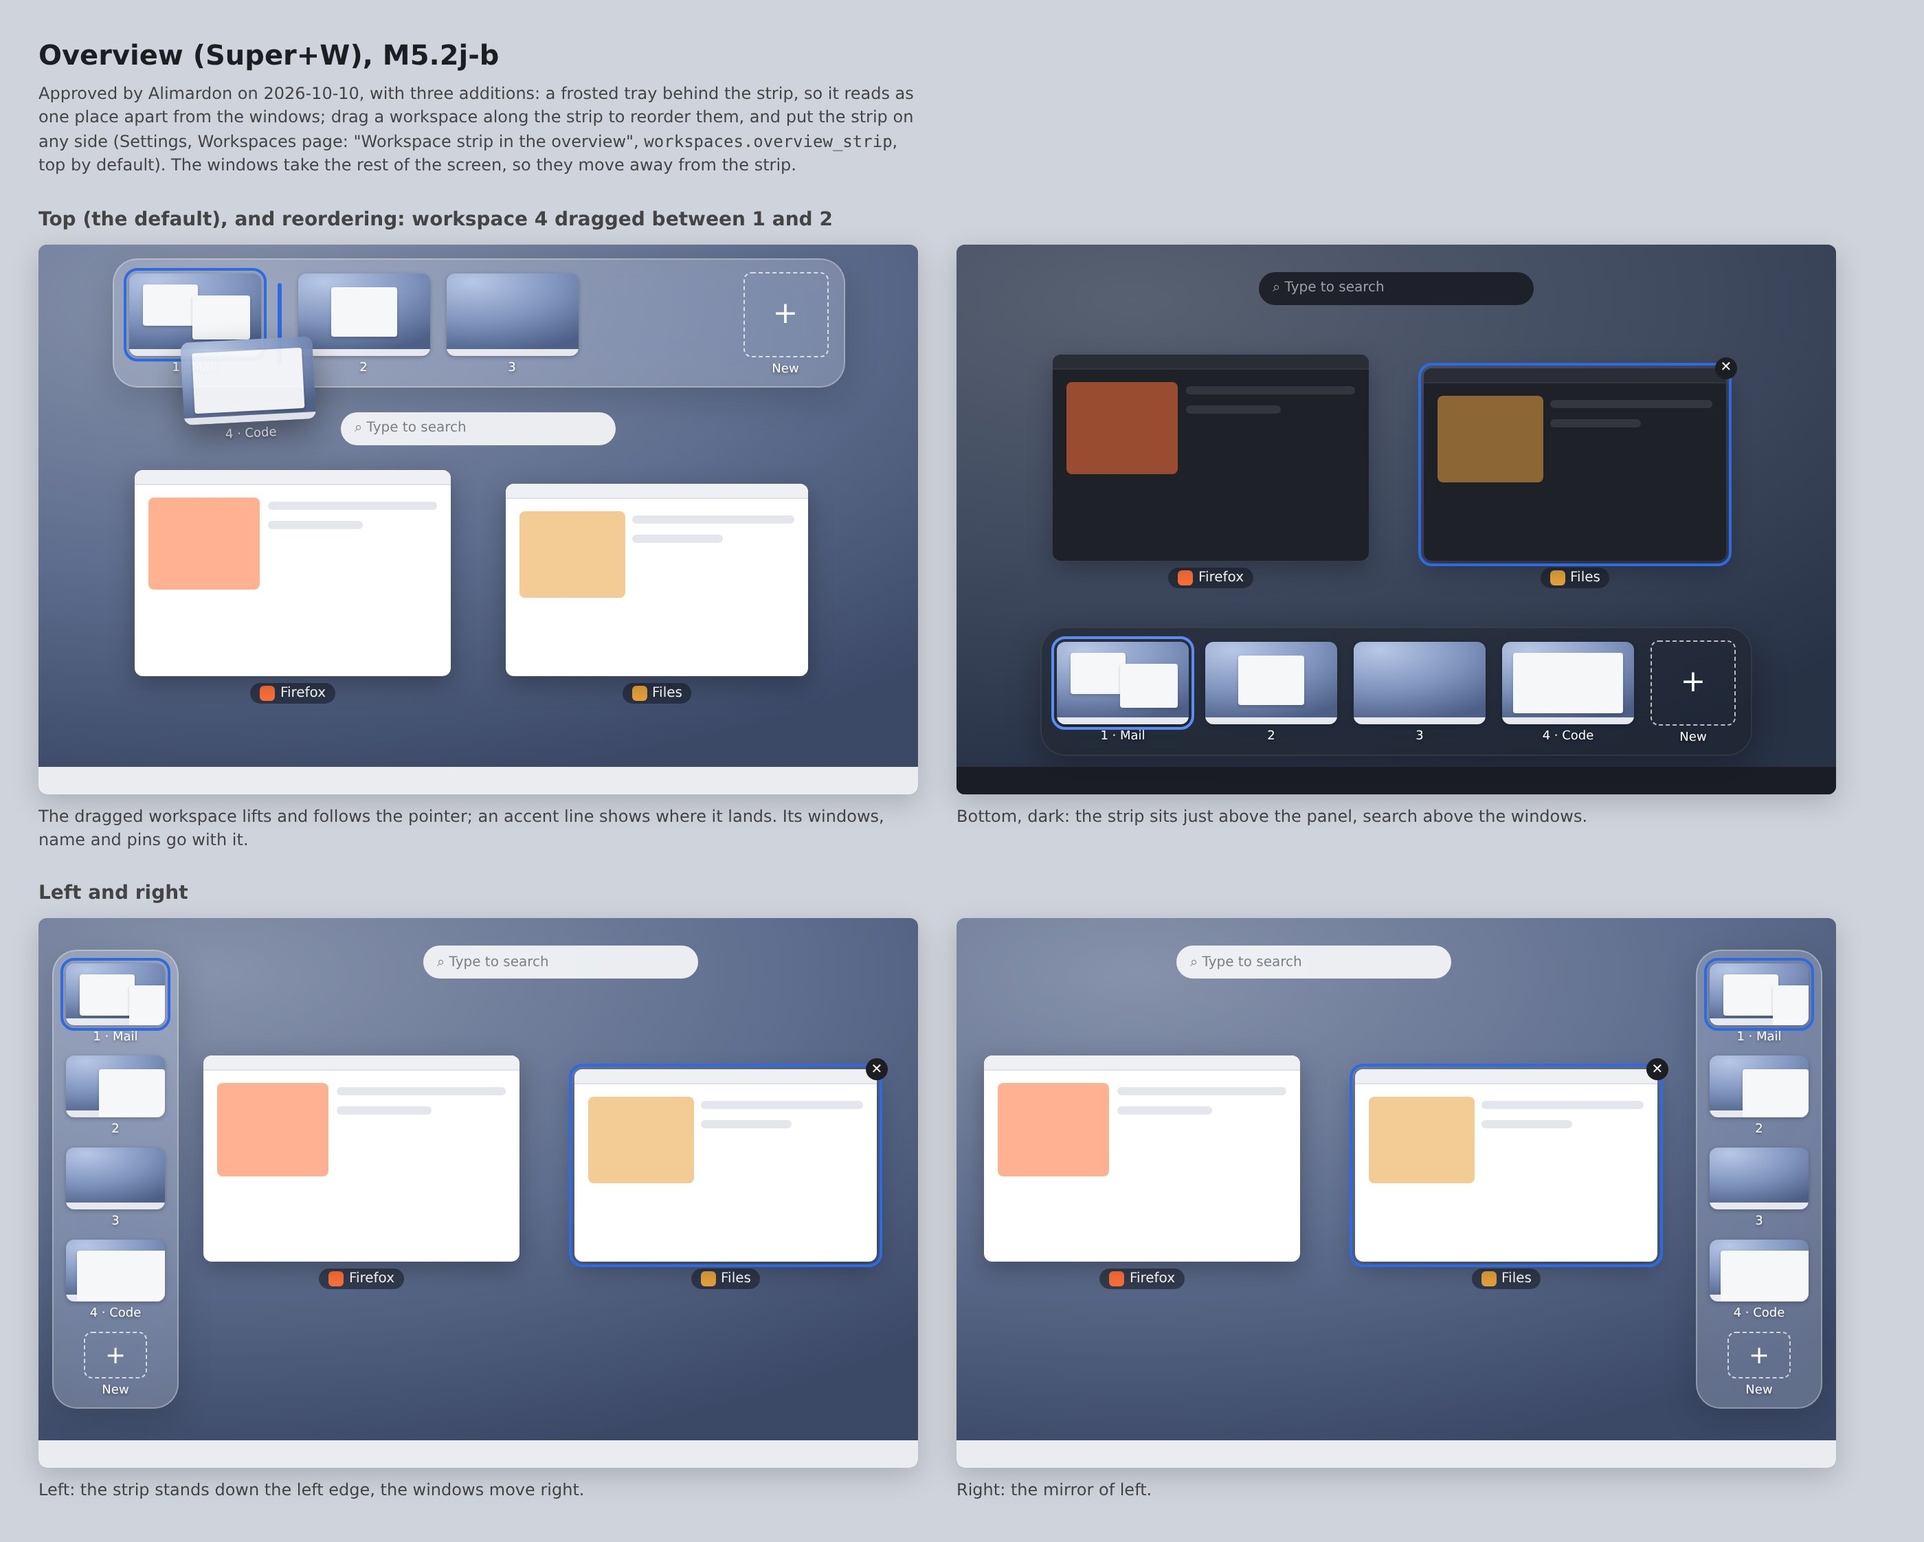
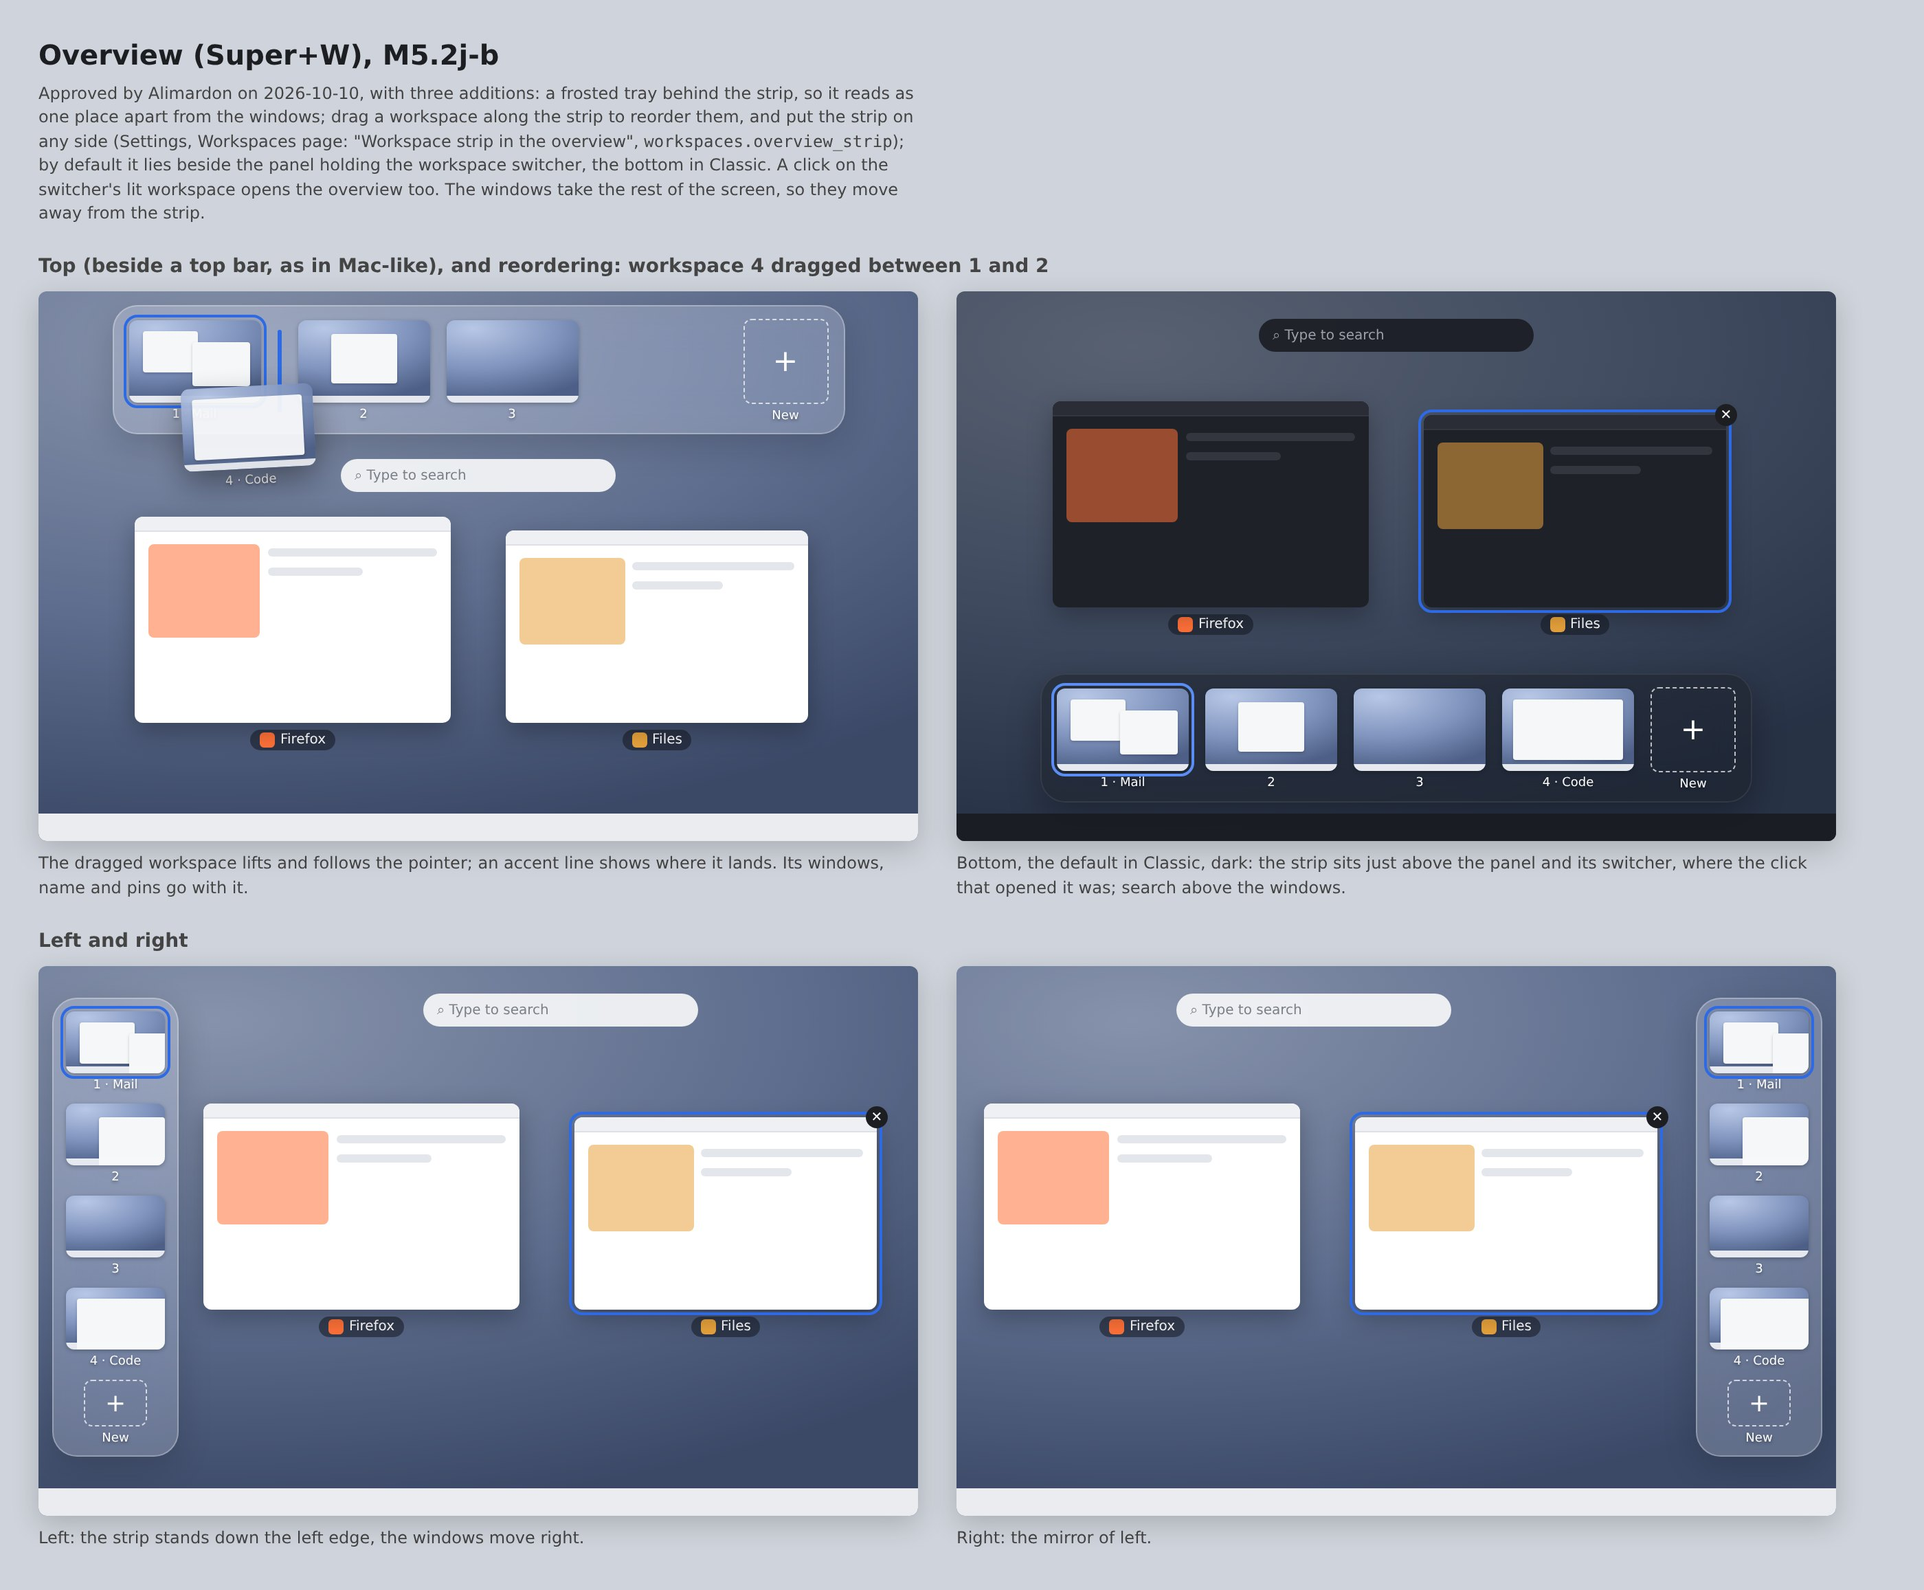
Open the overview beside the switcher's panel, and from its lit workspace
Asked by Alimardon on 2026-10-10: the strip's default should be the
bottom, left or right rather than the top, and a click on the panel
switcher's lit workspace should open the overview. By default the strip
now lies beside the panel holding the switcher, the bottom in Classic,
where the click that opens it lands; workspaces.overview_strip still
puts it on any side.

Claude-Session: https://claude.ai/code/session_01BKmt1qoa5mKGyQ4ytiEsKo

diff --git a/docs/mockups/shell/canvas/overview.html b/docs/mockups/shell/canvas/overview.html
@@ -52,10 +52,10 @@ h1{font-size:20px;margin:0 0 4px}h2{font-size:14px;margin:22px 0 10px;color:#444
 .hand{position:absolute;font-size:18px}
 </style></head><body>
 <h1>Overview (Super+W), M5.2j-b</h1>
-<div class="cap">Approved by Alimardon on 2026-10-10, with three additions: a frosted tray behind the strip, so it reads as one place apart from the windows; drag a workspace along the strip to reorder them, and put the strip on any side (Settings, Workspaces page: "Workspace strip in the overview", <code>workspaces.overview_strip</code>, top by default). The windows take the rest of the screen, so they move away from the strip.</div>
-<h2>Top (the default), and reordering: workspace 4 dragged between 1 and 2</h2>
+<div class="cap">Approved by Alimardon on 2026-10-10, with three additions: a frosted tray behind the strip, so it reads as one place apart from the windows; drag a workspace along the strip to reorder them, and put the strip on any side (Settings, Workspaces page: "Workspace strip in the overview", <code>workspaces.overview_strip</code>); by default it lies beside the panel holding the workspace switcher, the bottom in Classic. A click on the switcher's lit workspace opens the overview too. The windows take the rest of the screen, so they move away from the strip.</div>
+<h2>Top (beside a top bar, as in Mac-like), and reordering: workspace 4 dragged between 1 and 2</h2>
 <div class="row"><div><div class="screen" id="top"></div><div class="cap">The dragged workspace lifts and follows the pointer; an accent line shows where it lands. Its windows, name and pins go with it.</div></div>
-<div class="dark"><div class="screen" id="bottom"></div><div class="cap">Bottom, dark: the strip sits just above the panel, search above the windows.</div></div></div>
+<div class="dark"><div class="screen" id="bottom"></div><div class="cap">Bottom, the default in Classic, dark: the strip sits just above the panel and its switcher, where the click that opened it was; search above the windows.</div></div></div>
 <h2>Left and right</h2>
 <div class="row"><div><div class="screen" id="left"></div><div class="cap">Left: the strip stands down the left edge, the windows move right.</div></div>
 <div><div class="screen" id="right"></div><div class="cap">Right: the mirror of left.</div></div></div>

diff --git a/docs/ROADMAP.md b/docs/ROADMAP.md
@@ -219,8 +219,8 @@ Every milestone ends with the ab-test, boot-test and install-test still green; a
     Done when: cargo tests write each new name (`edel settings set workspaces.count=6` gives `[workspaces]` `count = 6`); desktop-test `settings-workspaces` opens Settings with `--page workspaces.count` and its click on 6 writes `workspaces.count = 6`; `settings-panels` opens the Panels page; a new `settings-appearance` case clicks Dark and sees the dark tokens. Notes: the panel editor (M5.31) and the compositor read the new names; `docs/settings.md` lists the three pages in the app's order. Done with: `edel::settings` has `[panels]`, `[workspaces]` and the switcher's `appearance.switcher_*` keys, with no old names kept; Settings' `layout.rs` builds the four pages with one builder (Style is Light, Dark and Automatic as buttons) and three new icons in `design/icons/`; the compositor, shell-ui, the panel editor and every desktop-test case read and write the new names, and `settings-appearance` clicks Dark.
   - [x] **2j-a. The overview, first.** Super+W (`show_workspaces`, as COSMIC has it; desktop-test's rebinding of close moved to Super+X) zooms out to every workspace of the screen side by side, each with its windows' last pictures (the still ones Lite shows); a click on a workspace shows it and leaves; a window dragged onto another workspace of its screen moves there and the overview stays; Escape or Super+W again leaves.
     Done when: Super+W shows four workspace frames in the screendump with a test window's colour in the second; a `qmp.py drag` of that window to the third frame logs `window lap to workspace 3`; Escape brings the desktop back with no overview layer left. Done with: `glance.rs` draws the overview and the lib's `overview.rs` holds its geometry (tested); desktop-test's `overview` case sends `lap` to workspace 2, finds its colour in frame 2, drags its picture to frame 3, and checks Escape, a click on frame 3 and Super+1. PR #196.
-  - [ ] **2j-b. The overview, finished.** Redrawn after the overviews people know (Alimardon, 2026-10-10: learn from them, without copying any): the current workspace large in the middle with its windows spread out to pick, each with its app icon and title under it and a close button while hovered; every workspace a small frame in a strip on its own frosted tray (the panel's colour over the blurred wallpaper on Full, solid on Balanced and Lite, a hairline inside its edge and round corners, so the strip reads as one place apart from the windows), with the wallpaper and its number or name under it, and a frame to add one at the strip's end (`docs/mockups/shell/overview.jpg`). A workspace dragged along the strip reorders them, its windows, name and pins going with it. The frames never shrink below a readable size (96 by 60 px along the top or bottom, 72 by 45 down a side, smaller only on Compact screens at touch size); when all nine do not fit, as down the side of a short laptop screen, the strip scrolls instead, with no scroll bar: the end that holds more fades out under a small arrow, as the panel's workspace switcher draws it, a wheel, a swipe or a click on the arrow scrolls it, and the shown workspace is always in view when the overview opens. Search sits between the strip and the windows, never touching either: at least 16 px from the tray's edge and from the windows, the windows taking what is left. The strip lies along the top by default, or the bottom, the left or the right, as `workspaces.overview_strip` (`top`, `bottom`, `left`, `right`) says, a row on the Workspaces page and an `edel settings` key like every other, the windows taking the rest of the screen. Tiling or floating, the overview is the same: it draws each window's picture spread out, whatever the workspace's policy, changes no window's place or size, and leaving it gives back each workspace's layout as it was (Alimardon, 2026-10-10: tiling must never make the UI buggy). Live pictures on Full and Balanced; a window dragged onto another screen moves there; a workspace dragged reorders them (2i); typing searches the windows and the launcher's apps. The four-finger swipe up on a touchpad and the tablet gesture (M9.4) open it too. Beyond macOS's Mission Control and COSMIC's overview: search built in, every preset, and the same overview on a tablet.
-    Done when: at tier Full, a test window that changes its colour while the overview is open shows the new colour in the screendump; in the `outputs` case a drag of a window's picture onto the second screen's frame logs it on that screen; dragging frame 3 onto frame 1 logs the new order; typing `foot` and Return in the overview starts foot. `edel settings set workspaces.overview_strip=left` puts the strip at the screen's left in the screendump, and `diagonal` is refused with the key's choices; on a tiled workspace, opening and leaving the overview leaves the state file's windows where they were.
+  - [ ] **2j-b. The overview, finished.** Redrawn after the overviews people know (Alimardon, 2026-10-10: learn from them, without copying any): the current workspace large in the middle with its windows spread out to pick, each with its app icon and title under it and a close button while hovered; every workspace a small frame in a strip on its own frosted tray (the panel's colour over the blurred wallpaper on Full, solid on Balanced and Lite, a hairline inside its edge and round corners, so the strip reads as one place apart from the windows), with the wallpaper and its number or name under it, and a frame to add one at the strip's end (`docs/mockups/shell/overview.jpg`). A workspace dragged along the strip reorders them, its windows, name and pins going with it. The frames never shrink below a readable size (96 by 60 px along the top or bottom, 72 by 45 down a side, smaller only on Compact screens at touch size); when all nine do not fit, as down the side of a short laptop screen, the strip scrolls instead, with no scroll bar: the end that holds more fades out under a small arrow, as the panel's workspace switcher draws it, a wheel, a swipe or a click on the arrow scrolls it, and the shown workspace is always in view when the overview opens. Search sits between the strip and the windows, never touching either: at least 16 px from the tray's edge and from the windows, the windows taking what is left. By default the strip lies beside the panel that holds the workspace switcher, along the bottom in Classic and Windows-like and along the top in Mac-like, so it opens where the pointer already is (Alimardon chose the bottom over the top on 2026-10-10); `workspaces.overview_strip` (`bottom`, `top`, `left`, `right`) puts it on one side for good, a row on the Workspaces page and an `edel settings` key like every other, the windows taking the rest of the screen. Besides Super+W, a click on the switcher's shown workspace, the one already lit, opens the overview, and a second click leaves it: shell-ui asks the compositor over `edel-shell-v1`. Tiling or floating, the overview is the same: it draws each window's picture spread out, whatever the workspace's policy, changes no window's place or size, and leaving it gives back each workspace's layout as it was (Alimardon, 2026-10-10: tiling must never make the UI buggy). Live pictures on Full and Balanced; a window dragged onto another screen moves there; a workspace dragged reorders them (2i); typing searches the windows and the launcher's apps. The four-finger swipe up on a touchpad and the tablet gesture (M9.4) open it too. Beyond macOS's Mission Control and COSMIC's overview: search built in, every preset, and the same overview on a tablet.
+    Done when: at tier Full, a test window that changes its colour while the overview is open shows the new colour in the screendump; in the `outputs` case a drag of a window's picture onto the second screen's frame logs it on that screen; dragging frame 3 onto frame 1 logs the new order; typing `foot` and Return in the overview starts foot. with Classic the strip lies along the bottom, above the panel; a click on the panel switcher's lit workspace logs `overview shown`; `edel settings set workspaces.overview_strip=left` puts the strip at the screen's left in the screendump, and `diagonal` is refused with the key's choices; on a tiled workspace, opening and leaving the overview leaves the state file's windows where they were.
 - [x] **3. Launcher and switcher.** One private protocol `edel-shell-v1` (compositor to shell-ui: show launcher, switcher step, hide); the launcher reads the XDG `.desktop` files itself (no GLib in shell-ui) with search, and grows out of its panel button (REVIEW-shells.md); Alt-Tab list; the presets gain the launcher's style.
   Done when: `qmp.py key meta_l` shows the launcher region colour; `type foot` and Return gives `mapped window foot`; Alt-Tab shows the switcher region.
   Split into three PRs, ticked as each lands:
@@ -735,7 +735,7 @@ RAUC, ostree or systemd (a systemd adapter only as an add-on, M11.6); a shell ex
 
 Dated entries, newest first. Format: `YYYY-MM-DD: what changed, why, which PR`. Since 2026-10-07 only a change to the plan gets an entry: a finished step is recorded by its tick and its "Done with:" note, so the many PRs running side by side do not all add a line at the same place.
 
-- 2026-10-10: M5.2j-b's overview approved from mockups (`docs/mockups/shell/overview.jpg`), with Alimardon's three additions: a frosted tray behind the strip, workspaces reorder by dragging in the strip, and the strip lies on any side (`workspaces.overview_strip`, top by default), the side chosen like any other setting; tiling or floating, the overview changes no layout. Asked by Alimardon.
+- 2026-10-10: M5.2j-b's overview approved from mockups (`docs/mockups/shell/overview.jpg`), with Alimardon's three additions: a frosted tray behind the strip, workspaces reorder by dragging in the strip, and the strip lies on any side (`workspaces.overview_strip`), by default beside the switcher's panel (the bottom in Classic, Alimardon's choice over the top), and a click on the switcher's lit workspace opens it too; tiling or floating, the overview changes no layout. Asked by Alimardon.
 - 2026-10-10: M5.9i added: the player card names its app at its top centre and pages through every player sideways with tiny dots, still a pill (`docs/mockups/shell/player.jpg`; Alimardon chose 2A, sideways, over 2B, a vertical stack with dots on its edge). M5.2j-b also redraws the overview after the overviews people know (macOS's Mission Control, GNOME, Windows' Task View, KDE): the current workspace large with its windows spread out, every workspace a small frame in a strip along the top with the wallpaper and its name, app icons and titles under windows, a frame to add a workspace, and a close button on a hovered window. Asked by Alimardon.
 - 2026-10-10: Until the first release, settings keys are renamed or dropped freely, with no old names read and no compatibility code; `ci/keys-check.sh` passes a removed key while `released=no`, and M5.2q renames without reading the old names (ADR-008 amended). Asked by Alimardon. PR #194.
 - 2026-10-10: M5.12b split into 12b1 to 12b6 (colours, shape, glass and depth, motion, fonts and wallpaper, themes), so appearance is as customizable as a Hyprland or niri rice within settings and tokens; themes get their own Settings page, `[themes]`, as named sets of appearance values, Claude's call when Alimardon left it open. Asked by Alimardon.

diff --git a/docs/mockups/README.md b/docs/mockups/README.md
@@ -72,7 +72,7 @@ review of M8.18 first) may revisit them for better taste.
 | [shell/settings.jpg](shell/settings.jpg) | Every setting these pictures need: its choices, its default and its proposed key; Alimardon's decisions, and four defaults Claude picked by the principles (how many workspaces show, the ends of their strip, the volume pop-up on, new tray apps behind the arrow), which they can overrule |
 | [shell/standing-slider.jpg](shell/standing-slider.jpg) | How Sound is reached from a standing volume slider: six ways compared, and the one chosen, no button, a right click or a still hold |
 | [shell/player.jpg](shell/player.jpg) | The player card (M5.9i, chosen by Alimardon on 2026-10-10 as option 2A): a pill, its app's icon and name small at the top centre; with several players each is a page, switched by scrolling sideways, a swipe or a click on tiny dots under the controls, the shown dot a short accent pill |
-| [shell/overview.jpg](shell/overview.jpg) | The overview, Super+W (M5.2j-b, approved by Alimardon on 2026-10-10): every workspace small in a strip on a frosted tray, a frame to add one, search, and the shown workspace's windows large and labelled; a workspace dragged along the strip reorders them; the strip on the top (the default), the bottom, the left or the right, `workspaces.overview_strip` |
+| [shell/overview.jpg](shell/overview.jpg) | The overview, Super+W (M5.2j-b, approved by Alimardon on 2026-10-10): every workspace small in a strip on a frosted tray, a frame to add one, search, and the shown workspace's windows large and labelled; a workspace dragged along the strip reorders them; the strip beside the switcher's panel by default (the bottom in Classic), or on any side with `workspaces.overview_strip`; a click on the switcher's lit workspace opens it too |
 | [shell/options.jpg](shell/options.jpg) | The other layouts a person can switch to: the shelf at the top, both shelves, the player inside the grid, the sliders standing in it |
 
 The rules under them:
